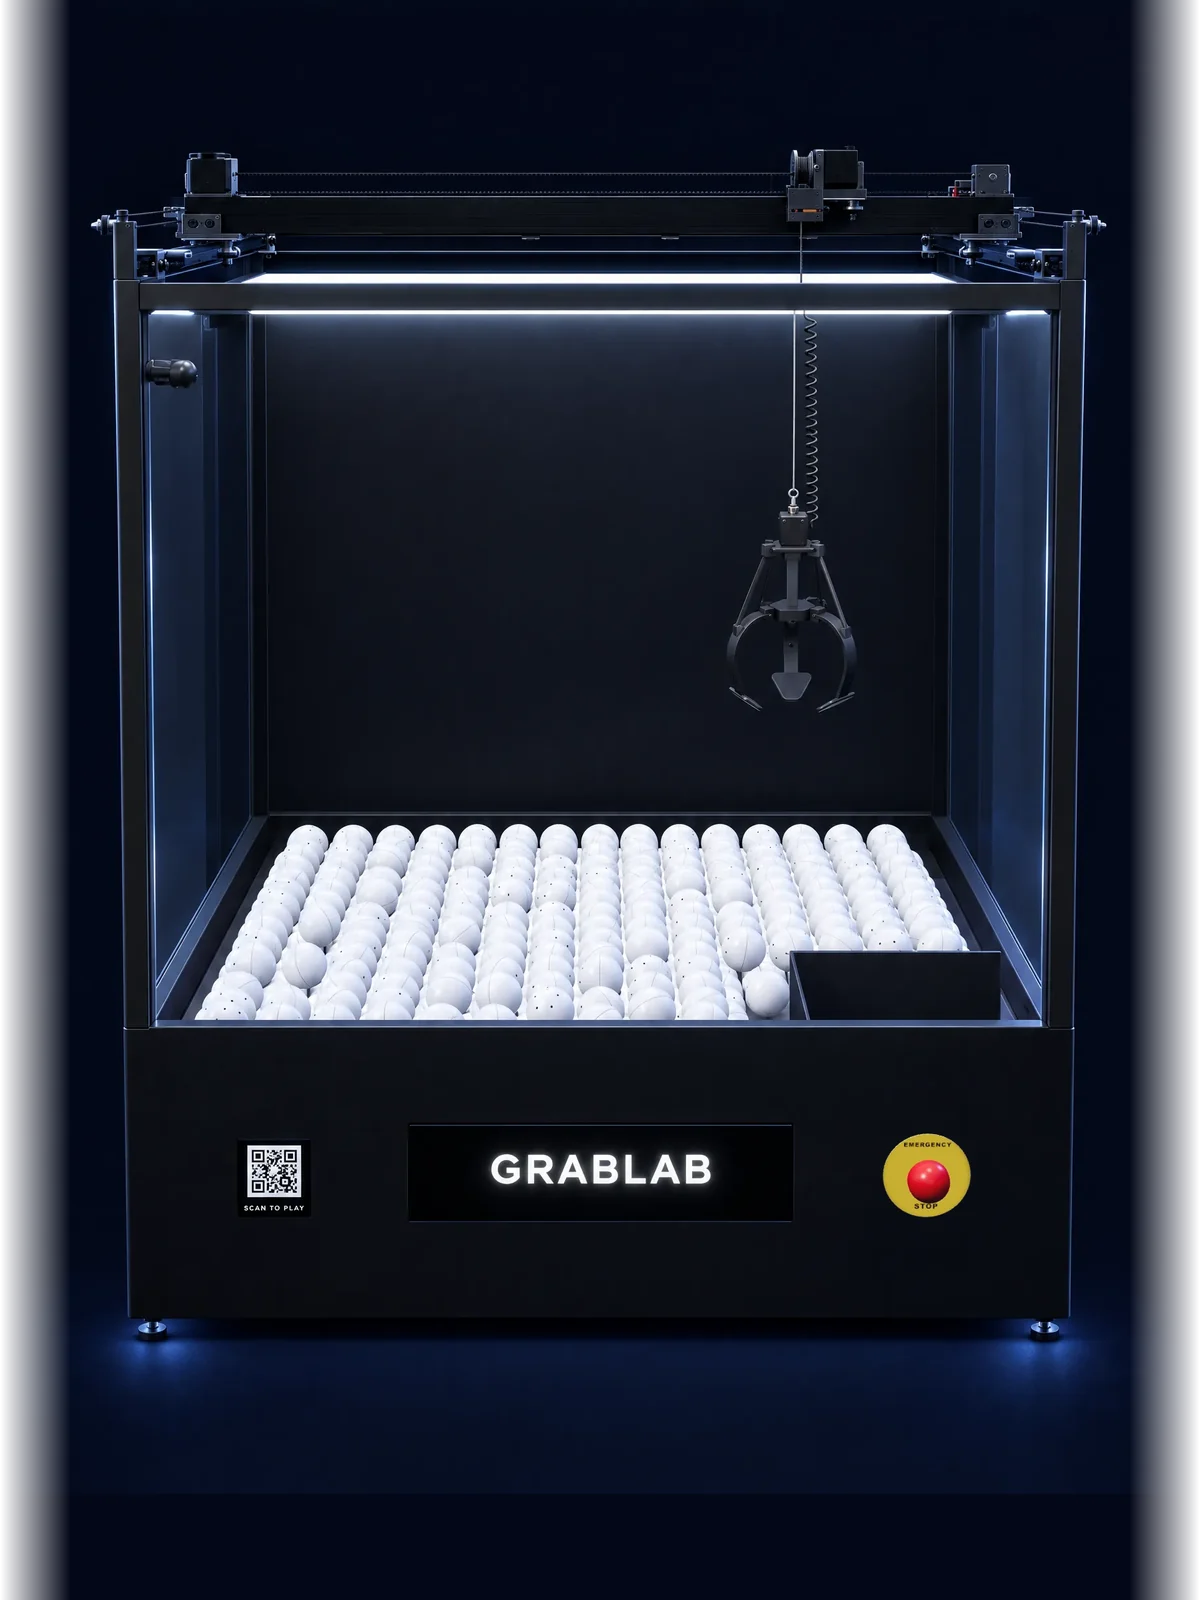
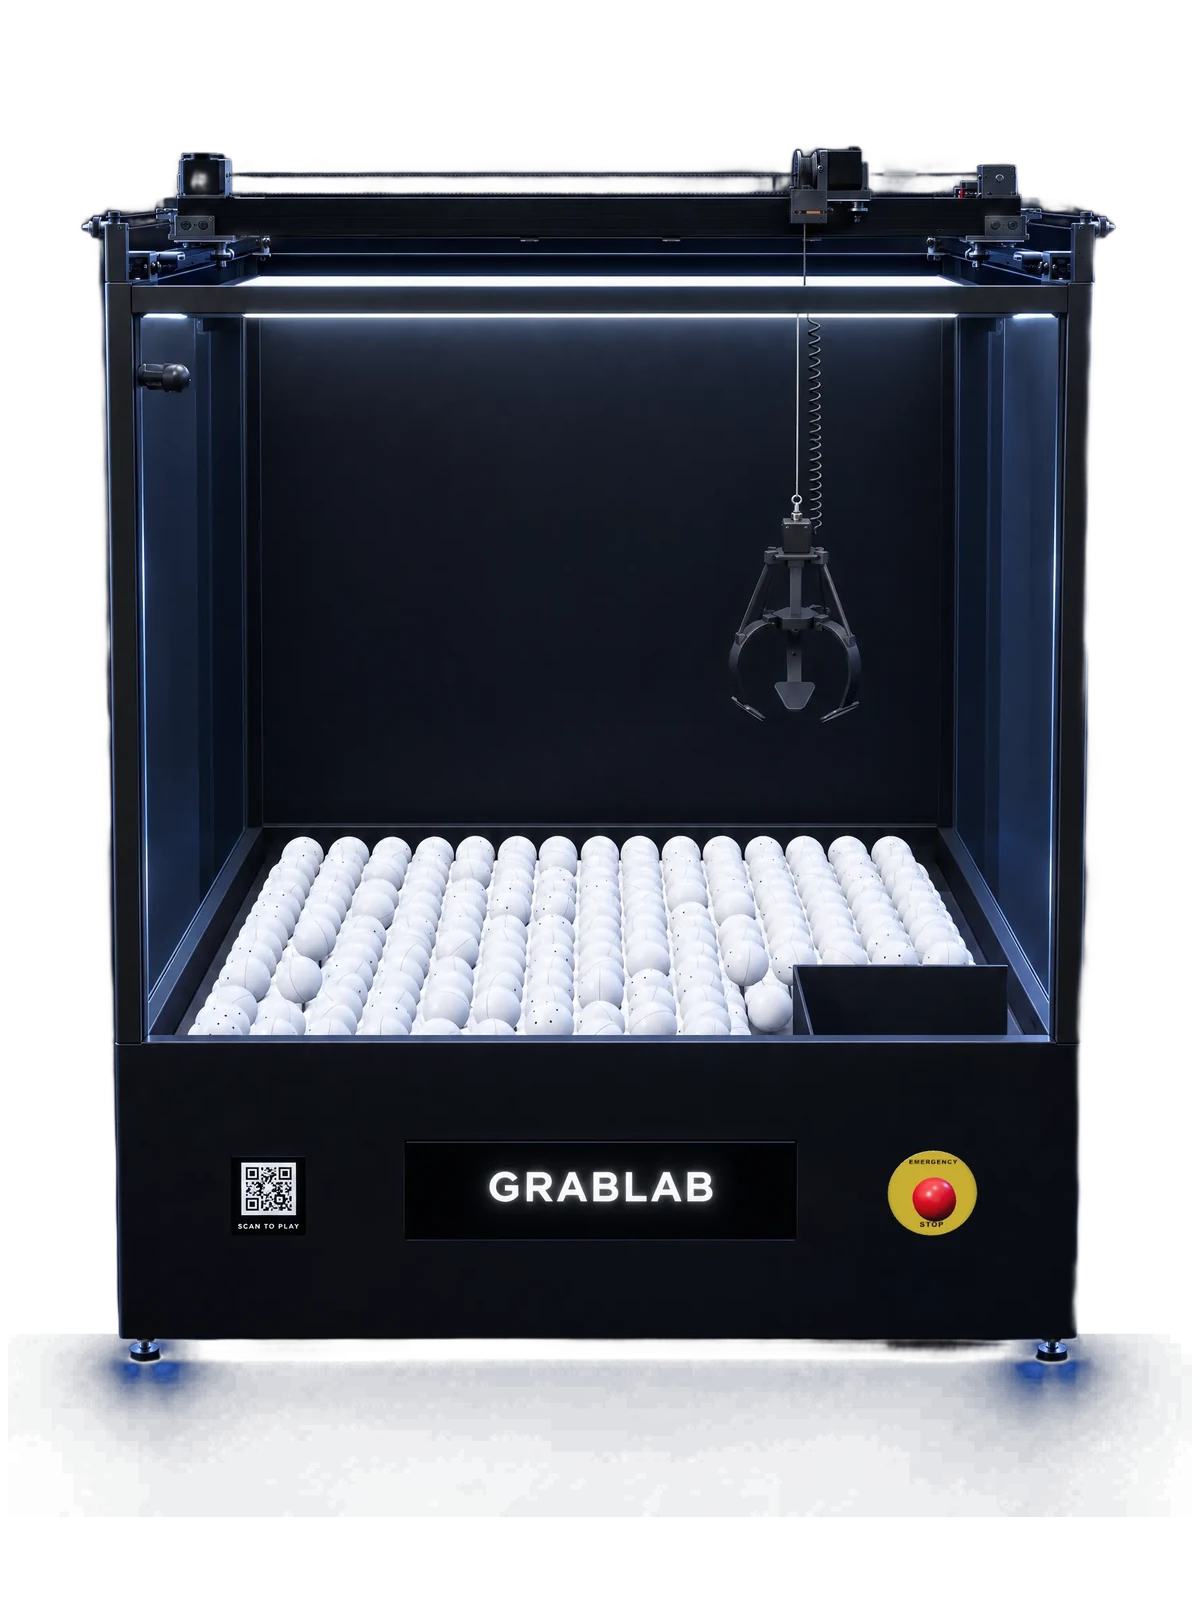
Loader machine sits on the page without a box, account stat cards spread top to bottom

diff --git a/notify.html b/notify.html
@@ -61,7 +61,7 @@
   <section class="ng-pane" id="p-tg" role="tabpanel"><ol class="ng-flow n3"><li><div class="dv mob" aria-hidden="true"><i class="nt"></i><div class="tgh"><img src="assets/sub/n-plane.webp" alt="" /><b>Grablab bot</b></div><div class="pg"><img class="hotimg" src="assets/sub/n-plane.webp" alt="" /></div></div><p><i>1</i>Open the bot</p></li><li><div class="dv mob" aria-hidden="true"><i class="nt"></i><div class="tgh"><img src="assets/sub/n-plane.webp" alt="" /><b>Grablab bot</b></div><div class="pg"></div><div class="sheet"><div class="rw hot c"><span>Start</span></div></div></div><p><i>2</i>Press Start</p></li><li><div class="dv mob" aria-hidden="true"><i class="nt"></i><div class="tgh"><img src="assets/sub/n-plane.webp" alt="" /><b>Grablab bot</b></div><div class="pk"><span>Launches<i></i></span><span>Quests<i></i></span><span>News<i></i></span></div></div><p><i>3</i>Pick your pings</p></li></ol><div class="ng-foot"><a class="nv-go" href="https://t.me/Grablab_news_bot?start=all" target="_blank" rel="noopener">Open the bot</a></div></section>
   </main>
 <footer id="site-footer"></footer>
-<script src="site.js?v=kq14"></script>
+<script src="site.js?v=kq15"></script>
 <script src="consent.js?v=9a"></script>
 <script src="notify.js?v=7" defer></script>
 <script>

diff --git a/site.js b/site.js
@@ -237,7 +237,7 @@ function bookingHTML(){
   const V = "?v=2";
   const scene = `
     <div class="ld-glow"></div>
-    <div class="ld-machine"><img class="bw" src="assets/loader-machine.webp?v=1" alt=""><img class="col" src="assets/loader-machine.webp?v=1" alt=""><span class="scan"></span></div>
+    <div class="ld-machine"><img class="bw" src="assets/loader-machine.webp?v=2" alt=""><img class="col" src="assets/loader-machine.webp?v=2" alt=""><span class="scan"></span></div>
     <div class="ld-load">LOADING<i class="dots">...</i></div>
     <div class="ld-pct"><span class="n">00</span><small>%</small></div>
     <div class="ld-brand"><img src="assets/brand/mark-chrome-256.png${V}" alt="">GRABLAB</div>`;

diff --git a/account.html b/account.html
@@ -33,7 +33,7 @@
 <link rel="stylesheet" href="styles.css?v=nv10" />
 <link rel="stylesheet" href="pages.css?v=c27" />
 <link rel="stylesheet" href="sub.css?v=c15" />
-<link rel="stylesheet" href="account.css?v=23" />
+<link rel="stylesheet" href="account.css?v=24" />
 <meta name="robots" content="noindex" />
 </head>
 <body data-page="account">
@@ -41,7 +41,7 @@
 <header id="site-header"></header>
 <main class="ac" id="account"></main>
 <footer id="site-footer"></footer>
-<script src="site.js?v=kq14"></script>
+<script src="site.js?v=kq15"></script>
 <script src="consent.js?v=9a"></script>
 <script src="notify.js?v=7" defer></script>
 <script src="account.js?v=24" defer></script>

diff --git a/account.css b/account.css
@@ -178,7 +178,7 @@ body:has(.ac-room) .footer{display:none}
   .ac-tok{font-size:13px}
 
   .ac-stats{grid-area:stats;margin:0;gap:12px}
-  .ac-stats div{justify-content:center;padding:clamp(8px,1.4vh,14px) 6px;border-radius:24px}
+  .ac-stats div{justify-content:space-between;padding:clamp(14px,2.2vh,24px) 6px;border-radius:24px}
   .ac-stats img{height:clamp(28px,4.4vh,40px);margin-bottom:3px}
   .ac-stats b{font-size:clamp(28px,4.2vh,38px)}
   .ac-stats span{margin-top:2px;font-size:12.5px}

diff --git a/anatomy.html b/anatomy.html
@@ -96,7 +96,7 @@
   </section>
 </main>
 <footer id="site-footer"></footer>
-<script src="site.js?v=kq14"></script>
+<script src="site.js?v=kq15"></script>
 <script src="consent.js?v=9a"></script>
 <script src="sub.js?v=c2"></script>
 <script type="module" src="anatomy.js?v=c34"></script>

diff --git a/cookies.html b/cookies.html
@@ -100,7 +100,7 @@
   </div>
 </main>
 <footer id="site-footer"></footer>
-<script src="site.js?v=kq14"></script>
+<script src="site.js?v=kq15"></script>
 <script src="consent.js?v=9a"></script>
 <script src="legal.js?v=1"></script>
 <script src="notify.js?v=7" defer></script>

diff --git a/privacy.html b/privacy.html
@@ -132,7 +132,7 @@
   </div>
 </main>
 <footer id="site-footer"></footer>
-<script src="site.js?v=kq14"></script>
+<script src="site.js?v=kq15"></script>
 <script src="consent.js?v=9a"></script>
 <script src="legal.js?v=1"></script>
 <script src="notify.js?v=7" defer></script>

diff --git a/provably-fair.html b/provably-fair.html
@@ -125,7 +125,7 @@
   </section>
 </main>
 <footer id="site-footer"></footer>
-<script src="site.js?v=kq14"></script>
+<script src="site.js?v=kq15"></script>
 <script src="consent.js?v=9a"></script>
 <script src="sub.js?v=c3"></script>
 <script src="alpha-any.js?v=3"></script>

diff --git a/rent.html b/rent.html
@@ -182,7 +182,7 @@
   </section>
 </main>
 <footer id="site-footer"></footer>
-<script src="site.js?v=kq14"></script>
+<script src="site.js?v=kq15"></script>
 <script src="consent.js?v=9a"></script>
 <script src="sub.js?v=c3"></script>
 <script src="alpha-any.js?v=3"></script>

diff --git a/terms.html b/terms.html
@@ -158,7 +158,7 @@
   </div>
 </main>
 <footer id="site-footer"></footer>
-<script src="site.js?v=kq14"></script>
+<script src="site.js?v=kq15"></script>
 <script src="consent.js?v=9a"></script>
 <script src="legal.js?v=1"></script>
 <script src="notify.js?v=7" defer></script>

diff --git a/index.html b/index.html
@@ -159,7 +159,7 @@
 </section>
 
 <footer id="site-footer"></footer>
-<script src="site.js?v=kq14"></script>
+<script src="site.js?v=kq15"></script>
 <script src="consent.js?v=9a"></script>
 <script src="alpha-video.js?v=2"></script>
 <script src="alpha-any.js?v=3"></script>

diff --git a/participate.html b/participate.html
@@ -156,7 +156,7 @@
   </section>
 </main>
 <footer id="site-footer"></footer>
-<script src="site.js?v=kq14"></script>
+<script src="site.js?v=kq15"></script>
 <script src="consent.js?v=9a"></script>
 <script src="sub.js?v=c2"></script>
 <script src="sim.js?v=c12"></script>
